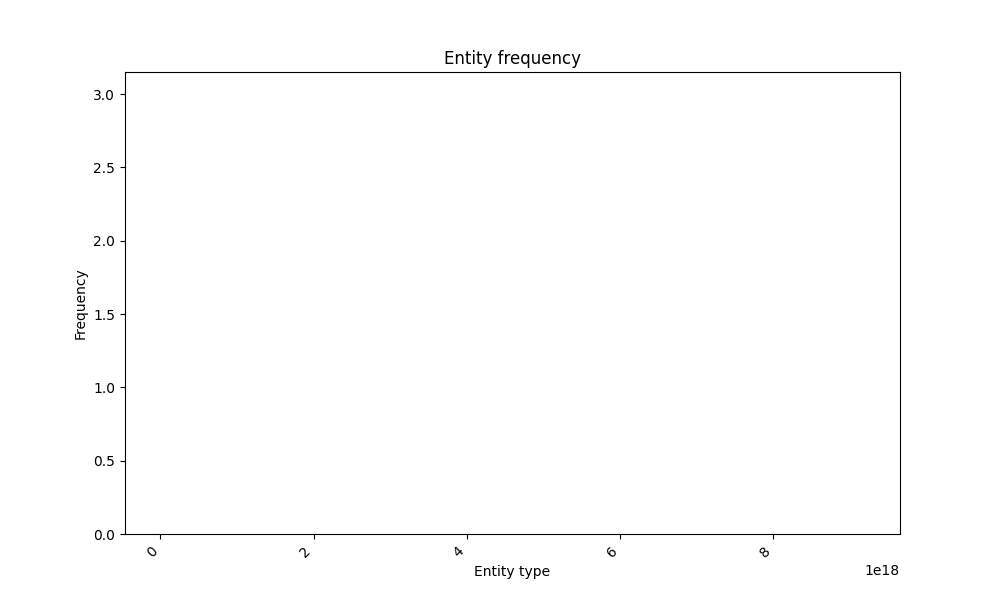
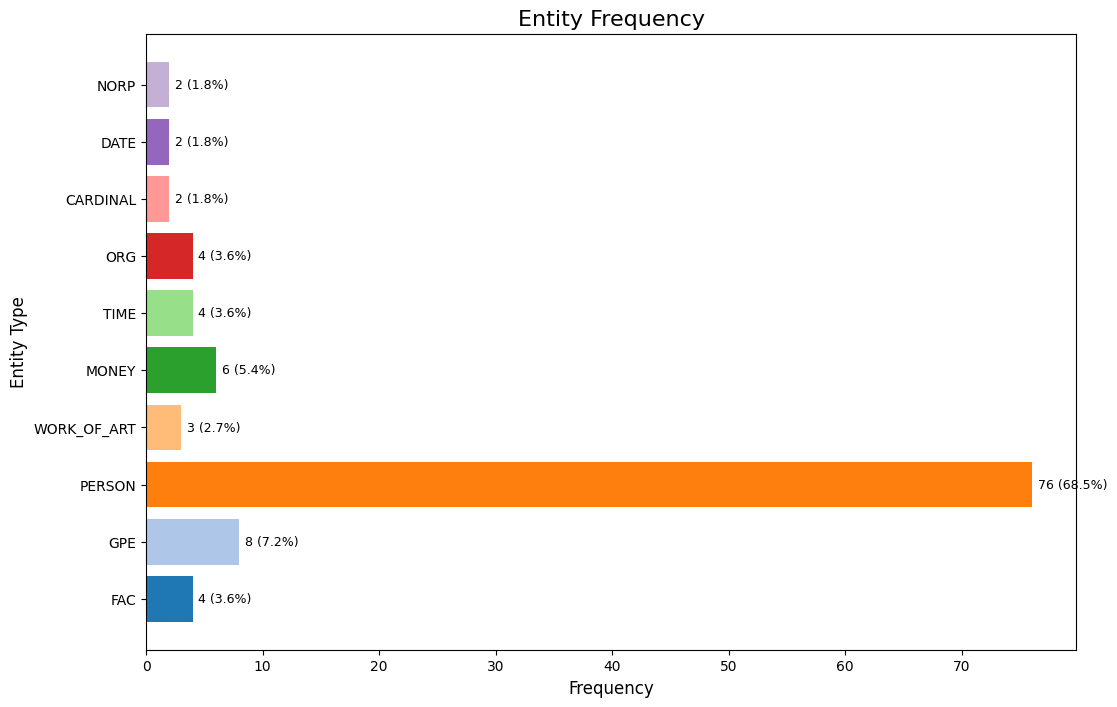
made a small analyze script

Changed region(s): [[0.031, 0.0, 0.992, 0.99], [0.434, 0.09, 0.589, 0.12], [0.0, 0.42, 0.031, 0.54]]

diff --git a/main.py b/main.py
@@ -6,39 +6,93 @@ from fastapi import FastAPI
 from fastapi.params import Depends
 from sqlalchemy.orm import Session
 from starlette.responses import FileResponse
+import logging
 from sympy import rotations
 
 from database import get_db
 from models import Token, Entity, SourceText, EntityResponse, TextInput, EntityItem
 from services import extract_entities, tokenize_text
-
 from routes import spacy_router
+
+
 app = FastAPI(
     title="First Spacy App",
     description="Supports danish and english",
     version="1.0.0")
 
-#app.include_router(spacy_router)
+logging.basicConfig(
+    level=logging.INFO,
+    format="%(asctime)s - %(levelname)s - %(name)s - %(message)s"
+)
+logger = logging.getLogger(__name__)
 
 @app.get("/")
 def read_root():
     return {"message": "Welcome to my version of SpaCy"}
 
-@app.post("/entities", response_model=EntityResponse, summary="Save entities from text", description="Extracts entities from text and saves them.")
+@app.post("/entities", response_model=EntityResponse, summary="Save entities from text")
 def save_entities(request: TextInput, db: Session = Depends(get_db)):
+    logger.info("Processing text: %s", request.text)
     entities = extract_entities(request.text, request.lang)
     source_text = SourceText(text=request.text)
     db.add(source_text)
     db.commit()
 
+    entity_cache = {}
+
     for entity in entities:
-        db.add(Entity(text=entity["text"], label=entity["label"], source_text_id=source_text.id))
+        entity_text = entity["text"]
+        entity_label = entity["label"]
+
+        logger.info("Processing entity: %s with label: %s", entity_text, entity_label)
+
+        if (entity_text, entity_label) in entity_cache:
+            entity_id = entity_cache[(entity_text, entity_label)]
+        else:
+            existing_entity = db.query(Entity).filter(
+                Entity.text == entity_text,
+                Entity.label == entity_label
+            ).first()
+
+            if existing_entity:
+                entity_id = existing_entity.id
+                logger.info("Found existing entity ID: %s", entity_id)
+            else:
+                new_entity = Entity(
+                    text=entity_text,
+                    label=entity_label,
+                    entity_id=None
+                )
+                db.add(new_entity)
+                db.commit()
+                entity_id = new_entity.id
+                logger.info("Created new entity ID: %s", entity_id)
+
+            entity_cache[(entity_text, entity_label)] = entity_id
+
+        db.add(
+            Entity(
+                text=entity_text,
+                label=entity_label,
+                entity_id=entity_id,
+                source_text_id=source_text.id,
+            )
+        )
     db.commit()
 
+    logger.info("Finished processing entities.")
     return EntityResponse(
         text=request.text,
-        entities=[EntityItem(text=entity["text"], label=entity["label"]) for entity in entities]
+        entities=[
+            EntityItem(
+                text=entity["text"],
+                label=entity["label"],
+            )
+            for entity in entities
+        ]
     )
+
+
 
 @app.get("/entities")
 def get_entites(text_id: int, db: Session = Depends(get_db)):
@@ -47,30 +101,42 @@ def get_entites(text_id: int, db: Session = Depends(get_db)):
 
 @app.get("/entity-chart", summary="Generate chart of entity frequencies")
 def entity_chart(db: Session = Depends(get_db)):
+    # Fetch all entities from the database
     entities = db.query(Entity).all()
 
+    # Calculate entity frequencies
     entity_count = {}
     for entity in entities:
         label = entity.label
         entity_count[label] = entity_count.get(label, 0) + 1
 
-    colors = plt.cm.tab20.colors
-    label_names = {380: "PERSON", 384: "ORG", 394: "MONEY"}
-    labels = [label_names.get(label, "UNKNOWN") for label in entity_count.keys()]
+    # Use the LABEL_MAPPING to get readable labels
+    from services import LABEL_MAPPING
+    reverse_label_mapping = {v: k for k, v in LABEL_MAPPING.items()}
+    labels = [reverse_label_mapping.get(label, "UNKNOWN") for label in entity_count.keys()]
     counts = list(entity_count.values())
 
+    # Plot the horizontal bar chart
+    plt.figure(figsize=(12, 8))
+    colors = plt.cm.tab20.colors  # Use a color palette
+    y_position = range(len(labels))  # Position for each bar
 
-    plt.figure(figsize=(10, 6))
-    plt.bar(labels, counts, color=colors[:len(labels)])
+    # Horizontal bar chart
+    plt.barh(y_position, counts, color=colors[:len(labels)])
+    plt.yticks(y_position, labels, fontsize=10)
+
+    # Add data labels to the bars (counts and percentages)
     for i, count in enumerate(counts):
-        plt.text(i, count + 0.5, f"{count} ({count / sum(counts):.1%})", ha="center")
-    plt.title("Entity frequency")
-    plt.xlabel("Entity type")
-    plt.ylabel("Frequency")
-    plt.xticks(rotation=45, ha="right")
+        plt.text(count + 0.5, i, f"{count} ({count / sum(counts):.1%})", va="center", fontsize=9)
 
+    # Add titles and labels
+    plt.title("Entity Frequency", fontsize=16)
+    plt.xlabel("Frequency", fontsize=12)
+    plt.ylabel("Entity Type", fontsize=12)
+
+    # Save the chart and return it
     chart_path = "entity_chart.png"
-    plt.savefig(chart_path)
+    plt.savefig(chart_path, bbox_inches="tight")
     plt.close()
 
     return FileResponse(

diff --git a/services.py b/services.py
@@ -3,12 +3,38 @@ import spacy
 
 nlp_models = {}
 
+LABEL_MAPPING = {
+    "PERSON": 380,  # People, including fictional
+    "ORG": 384,  # Organizations, companies, institutions, etc.
+    "MONEY": 394,  # Monetary values, including currency
+    "GPE": 386,  # Geopolitical entities (countries, cities, states)
+    "LOC": 385,  # Non-GPE locations, mountain ranges, bodies of water
+    "DATE": 387,  # Absolute or relative dates or periods
+    "TIME": 388,  # Times smaller than a day
+    "PERCENT": 389,  # Percentage values
+    "QUANTITY": 390,  # Measurements, including weight, distance
+    "ORDINAL": 391,  # 'first', 'second', etc.
+    "CARDINAL": 392,  # Numerals that do not fall under another type
+    "EVENT": 393,  # Named events, e.g., 'Olympics'
+    "PRODUCT": 395,  # Objects, vehicles, foods, etc. (not services)
+    "LAW": 396,  # Named documents made into laws
+    "LANGUAGE": 397,  # Any named language
+    "NORP": 398,  # Nationalities, religious groups, political groups
+    "FAC": 399,  # Buildings, airports, highways, bridges, etc.
+    "WORK_OF_ART": 400,  # Titles of books, songs, etc.
+    "ART": 401,  # Creative works (paintings, sculptures, etc.)
+    "ANIMAL": 402,  # Animals (e.g., 'dog', 'cat', 'dinosaur')
+    "PLANT": 403,  # Plant names (e.g., 'oak', 'rose', 'algae')
+}
+
+
 def extract_entities(text: str, lang: str):
     """
+    Extract named entities from text.
 
-    :param text:the text that is processed
-    :param lang: defines language of input
-    :return:
+    :param text: The text to process
+    :param lang: The language of the input (en = English, da = Danish)
+    :return: A list of entities with their text and mapped numeric labels
     """
     if lang not in nlp_models:
         if lang == "en":
@@ -19,22 +45,34 @@ def extract_entities(text: str, lang: str):
             raise ValueError(f"Language '{lang}' is not supported.")
     nlp = nlp_models[lang]
     doc = nlp(text)
-    return [{"text": ent.text, "label": ent.label} for ent in doc.ents]
+
+    entities = []
+    for ent in doc.ents:
+        readable_label = ent.label_  # Get the human-readable label (e.g., PERSON)
+        numeric_label = LABEL_MAPPING.get(readable_label, -1)  # Convert to numeric or fallback to -1
+        entities.append({"text": ent.text, "label": numeric_label})
+
+    return entities
+
 
 def tokenize_text(text: str, lang: str):
     """
-    Tokenize text using the specific language
-    :param text:
-    :param lang:
-    :return:
+    Tokenize text using the specific language model.
+
+    :param text: The text to tokenize
+    :param lang: The language of the input (en = English, da = Danish)
+    :return: A list of tokens
     """
     if lang not in nlp_models:
+        # Dynamically load models for the first time
         if lang == "en":
             nlp_models[lang] = spacy.load("en_core_web_trf")
         elif lang == "da":
             nlp_models[lang] = spacy.load("da_core_news_trf")
         else:
             raise ValueError(f"Language '{lang}' is not supported.")
+
     nlp = nlp_models[lang]
     doc = nlp(text)
+
     return [token.text for token in doc]

diff --git a/data_analysis.py b/data_analysis.py
@@ -1,0 +1,66 @@
+import pandas as pd
+
+def load_data(csv_file):
+    #Load the .csv file
+    return pd.read_csv(csv_file)
+
+def filter_by_label(df, label):
+    #Filter after label
+    return df[df['label'] == label]
+
+def analyze_connections(df):
+    #Find connections within entities based on entity_id and source text
+    return df[df['entity_id'].notnull() & df['source_text_id'].notnull()]
+
+def save_to_csv(df, filename):
+    #Save data to a csv file
+    return df.to_csv(filename, index=False)
+
+if __name__ == "__main__":
+    # Path to the CSV file containing the data
+    csv_file = 'fastapi_db_public_entities.csv'
+
+    # Load the data
+    df = load_data(csv_file)
+
+    # Filter entities
+    people = filter_by_label(df, 380)  # People, including fictional
+    places = filter_by_label(df, 386)  # Geopolitical entities (countries, cities, states)
+    money = filter_by_label(df, 394)  # Monetary values, including currency
+    org = filter_by_label(df, 384)  # Organizations, companies, institutions
+    norp = filter_by_label(df, 398) # Nationalities, religious groups, political groups
+    fac = filter_by_label(df, 399) # Buildings, airports, highways, bridges, etc.
+    work_of_art = filter_by_label(df, 400) # Titles of books, songs, etc
+
+    # Analyze connections
+    connections = analyze_connections(df)
+
+    # Display results
+    #print("People:\n", people)
+    #print("Places:\n", places)
+    #print("Money:\n", money)
+    #print("Organizations\n", org)
+    #print("Connections:\n", connections)
+
+    # Save results to CSV (optional)
+    #save_to_csv(people, 'people.csv')
+    #save_to_csv(places, 'places.csv')
+    #save_to_csv(money, 'money.csv')
+    #save_to_csv(org, 'org.csv')
+    #save_to_csv(connections, 'connect.csv')
+    #save_to_csv(norp, 'norp.csv')
+    #save_to_csv(fac, 'fac.csv')
+    #save_to_csv(work_of_art, 'work_of_art.csv')
+
+    print("Money Mentions:\n", money['text'].value_counts())
+    print("People mentions:\n", people['text'].value_counts())
+    print("Locations:\n", places['text'].value_counts())
+    print("Named locations:\n", fac['text'].value_counts())
+    print("Nationalities:\n", norp['text'].value_counts())
+    print("Art:\n", work_of_art['text'].value_counts())
+
+    #clara_mentions = people['text'].str.contains(r'\bClara\b|\bClara Davenport\b', regex=True).sum()
+    #print("Clara mentions count:\n", clara_mentions)
+
+
+

diff --git a/models.py b/models.py
@@ -34,6 +34,7 @@ class Entity(Base):
     id = Column(Integer, primary_key=True, index=True)
     text = Column(String, nullable=False)
     label = Column(BigInteger, nullable=False)
+    entity_id = Column(BigInteger, nullable=True)
     source_text_id = Column(Integer, ForeignKey("source_texts.id"))
 
     # Relationships
